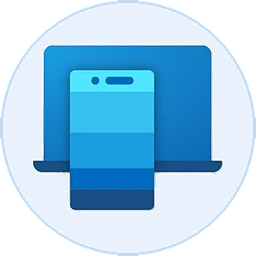
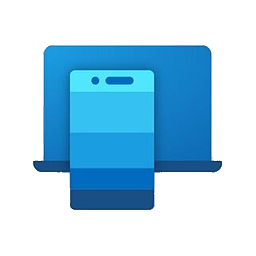
feat: 未讀膠囊加全部已讀並去掉手機連結白底

diff --git a/docs/updates.html b/docs/updates.html
@@ -70,6 +70,8 @@ footer{text-align:center;color:var(--dim);font-size:11.5px;letter-spacing:.1em;m
       <div class="card"><span class="badge">吉祥物</span><h3>原始主題恢復原作者石虎，漸層主題保留台灣島虎</h3><p>經典、奶油、毛玻璃與懸浮雲改回原作者的石虎點陣影格；只有懸浮漸層使用台灣版單線條島虎。原本使用者資料夾只剩說明文字，才會出現「吉祥物不見了」；現在內建影格會自動接手，不必把圖放回資料夾。線條會依實際玻璃與桌面底色選深墨或白線，白線遇到半透明亮底再加一層極淡深色底。</p></div>
       <div class="card"><span class="badge">歌詞</span><h3>長歌詞不再被省略號截斷，當前句會自動折行</h3><p>右側歌詞區加寬，當前句原文最多折三行、譯文最多兩行；英文與韓文按單字換行，中文、日文按字換行，不會把英文單字拆成兩半。前後句在空間足夠時仍以淡出的一行保留上下文，長句不會再整句變成「…」；播放控制、進度條與專輯封面位置不變。</p></div>
       <div class="card"><span class="badge">官網</span><h3>訊息上島卡片補回六顆社群圖示</h3><p>特色功能第二張卡原本只有文字，現在補上 LINE、手機連結、Messenger、Threads、Facebook 與 Instagram 六顆圓形圖示，和島上使用的圖示一致；深色主題會加白底，黑色 Threads 圖示不會消失。</p></div>
+      <div class="card"><span class="badge">訊息</span><h3>未讀膠囊新增「全部已讀」</h3><p>展開未讀後，膠囊底部多一顆「全部已讀」。按下去會清掉 LINE、手機連結、Messenger、Threads、Facebook、Instagram 的島上未讀，收起島體，不會開啟任何程式；健康提醒不會被誤清。</p></div>
+      <div class="card"><span class="badge">圖示</span><h3>手機連結圖示去掉白底圓盤</h3><p>手機連結的圖示改成透明底，只留筆電與手機本體，不再帶著一塊淡白圓形背景；在綠色、深色與淺色主題上都直接貼合島體。</p></div>
       <div class="card"><span class="badge">遊戲</span><h3>第十頁「遊戲庫」讀取本機 Steam 與 Riot</h3><p>讀取 Steam 登錄檔與 libraryfolders.vdf，列出各收藏庫已安裝的遊戲、最後遊玩與容量；同一路徑大小寫不同不再重複計算。Riot 端固定列出 Riot Client、英雄聯盟、聯盟戰棋與 VALORANT，按下啟動會走 Steam 或 Riot 的正式協定。只在使用者打開頁面或按重新掃描時讀 manifest，不在背景登入、不上傳收藏庫，也不定時輪詢。</p></div>
       <div class="card"><span class="badge">官網</span><h3>介面輪播補上遊戲庫，功能卡增至七張</h3><p>官網「介面」區的展開畫面新增第八張遊戲庫，Riot 四項與可滾動的 Steam 清單直接入鏡；右側通知列數字一樣在 10–50 間跟著切換。特色功能新增「本機遊戲庫」卡，說明只讀本機資料與啟動方式。</p></div>
       <div class="card"><span class="badge">官網</span><h3>介面區加入八張展開畫面與通知列</h3><p>「介面」區多一組可左右滑動的實機畫面：天氣、音樂、島上歌詞、番茄專注、剪貼簿、待辦清單、行程與遊戲庫，滑鼠拖曳、觸控滑動、鍵盤方向鍵與圓點都能切換。畫面旁同步亮起 Gmail、LINE、手機連結與系統通知四顆圓形圖示，未讀數字在 10–50 之間跟著畫面更換，切換時依序彈出。</p></div>

diff --git a/hist/更新總覽.html b/hist/更新總覽.html
@@ -67,6 +67,8 @@ footer{text-align:center;color:var(--dim);font-size:11.5px;letter-spacing:.1em;m
       <div class="card"><span class="badge">吉祥物</span><h3>原始主題恢復原作者石虎，漸層主題保留台灣島虎</h3><p>經典、奶油、毛玻璃與懸浮雲改回原作者的石虎點陣影格；只有懸浮漸層使用台灣版單線條島虎。原本使用者資料夾只剩說明文字，才會出現「吉祥物不見了」；現在內建影格會自動接手，不必把圖放回資料夾。線條會依實際玻璃與桌面底色選深墨或白線，白線遇到半透明亮底再加一層極淡深色底。</p></div>
       <div class="card"><span class="badge">歌詞</span><h3>長歌詞不再被省略號截斷，當前句會自動折行</h3><p>右側歌詞區加寬，當前句原文最多折三行、譯文最多兩行；英文與韓文按單字換行，中文、日文按字換行，不會把英文單字拆成兩半。前後句在空間足夠時仍以淡出的一行保留上下文，長句不會再整句變成「…」；播放控制、進度條與專輯封面位置不變。</p></div>
       <div class="card"><span class="badge">官網</span><h3>訊息上島卡片補回六顆社群圖示</h3><p>特色功能第二張卡原本只有文字，現在補上 LINE、手機連結、Messenger、Threads、Facebook 與 Instagram 六顆圓形圖示，和島上使用的圖示一致；深色主題會加白底，黑色 Threads 圖示不會消失。</p></div>
+      <div class="card"><span class="badge">訊息</span><h3>未讀膠囊新增「全部已讀」</h3><p>展開未讀後，膠囊底部多一顆「全部已讀」。按下去會清掉 LINE、手機連結、Messenger、Threads、Facebook、Instagram 的島上未讀，收起島體，不會開啟任何程式；健康提醒不會被誤清。</p></div>
+      <div class="card"><span class="badge">圖示</span><h3>手機連結圖示去掉白底圓盤</h3><p>手機連結的圖示改成透明底，只留筆電與手機本體，不再帶著一塊淡白圓形背景；在綠色、深色與淺色主題上都直接貼合島體。</p></div>
       <div class="card"><span class="badge">遊戲</span><h3>第十頁「遊戲庫」讀取本機 Steam 與 Riot</h3><p>讀取 Steam 登錄檔與 libraryfolders.vdf，列出各收藏庫已安裝的遊戲、最後遊玩與容量；同一路徑大小寫不同不再重複計算。Riot 端固定列出 Riot Client、英雄聯盟、聯盟戰棋與 VALORANT，按下啟動會走 Steam 或 Riot 的正式協定。只在使用者打開頁面或按重新掃描時讀 manifest，不在背景登入、不上傳收藏庫，也不定時輪詢。</p></div>
       <div class="card"><span class="badge">官網</span><h3>介面輪播補上遊戲庫，功能卡增至七張</h3><p>官網「介面」區的展開畫面新增第八張遊戲庫，Riot 四項與可滾動的 Steam 清單直接入鏡；右側通知列數字一樣在 10–50 間跟著切換。特色功能新增「本機遊戲庫」卡，說明只讀本機資料與啟動方式。</p></div>
       <div class="card"><span class="badge">官網</span><h3>介面區加入八張展開畫面與通知列</h3><p>「介面」區多一組可左右滑動的實機畫面：天氣、音樂、島上歌詞、番茄專注、剪貼簿、待辦清單、行程與遊戲庫，滑鼠拖曳、觸控滑動、鍵盤方向鍵與圓點都能切換。畫面旁同步亮起 Gmail、LINE、手機連結與系統通知四顆圓形圖示，未讀數字在 10–50 之間跟著畫面更換，切換時依序彈出。</p></div>

diff --git a/src/app.rs b/src/app.rs
@@ -164,9 +164,11 @@ impl Env {
 pub use crate::messenger::{Messenger,Unread};
 
 /// 展开后未读胶囊的宽度、离面板的间距和每个图标占的高度。
-pub(crate) const UNREAD_W: f32 = 40.0;
+pub(crate) const UNREAD_W: f32 = 68.0;
 pub(crate) const UNREAD_GAP: f32 = 8.0;
 pub(crate) const UNREAD_SLOT: f32 = 36.0;
+/// 未读胶囊底部的「全部已讀」高度；图标列表只用到剩下的空间。
+const UNREAD_CLEAR_H: f32 = 34.0;
 /// 收起时两个来源图标的间距：并排各占一格，不叠放。
 fn unread_step(_horizontal: bool) -> f32 { 22.0 }
 
@@ -2407,11 +2409,12 @@ impl App {
     /// 展开胶囊高度：一个是圆，两个是短胶囊，三个及以上与面板等高（多出的滚动）。
     fn unread_capsule_height(&self,panel_h:f32)->f32 {
         let n=self.unread_count();
-        if n>=3 {panel_h} else {4.0+UNREAD_SLOT*n as f32}
+        let list=if n>=3 {panel_h}else{4.0+UNREAD_SLOT*n as f32};
+        (list+UNREAD_CLEAR_H).min(panel_h)
     }
     pub(crate) fn unread_top_inset(&self)->f32 {if self.dock()==model::Dock::Top {UNREAD_GAP}else{0.0}}
     fn unread_slot(&self,height:f32)->f32 {
-        if self.unread_count()>=3 {(height-4.0)/3.0} else {UNREAD_SLOT}
+        if self.unread_count()>=3 {((height-4.0-UNREAD_CLEAR_H)/3.0).max(26.0)} else {UNREAD_SLOT}
     }
     fn unread_count(&self)->usize {self.pending_messengers.len()+self.social.active_ordered(&self.settings.social_order).len()+self.health_badges().len()}
     /// 收起时叠放的来源图标，每个客户端各占一个。
@@ -2467,24 +2470,27 @@ impl App {
         let n=self.unread_count();
         let height=rect.height()/c.s;
         let slot=self.unread_slot(height);
-        let max_scroll=(n as f32-3.0).max(0.0)*slot;
+        // 底部留給「全部已讀」，圖示只在上面這段捲動。
+        let list_h=(height-UNREAD_CLEAR_H-2.0).max(slot);
+        let visible=((list_h-2.0)/slot).floor().max(1.0);
+        let max_scroll=(n as f32-visible).max(0.0)*slot;
         let hovering=cursor.is_some_and(|p|rect.contains(p));
         if max_scroll>0.0 && cursor.is_some_and(|p|rect.contains(p)) {
             let delta=ctx.input(|i|i.raw_scroll_delta.y);
             self.messenger_scroll-=delta*0.5;
         }else if max_scroll>0.0 && !hovering {
-            // 超過三個未讀時緩慢往下刷，讓下面的來源自己露出來；滑鼠移進膠囊就停止，改用手動滾輪。
+            // 超過可見數量時緩慢往下刷，讓下面的來源自己露出來；滑鼠移進膠囊就停止，改用手動滾輪。
             self.messenger_scroll+=ctx.input(|i|i.stable_dt).clamp(0.0,0.1)*7.0;
             if self.messenger_scroll>=max_scroll{self.messenger_scroll=0.0;}
         }
         self.messenger_scroll=self.messenger_scroll.clamp(0.0,max_scroll);
         let c=c.faded(self.messenger_appear());
-        let inner=c.clipped(0.0,2.0,UNREAD_W,height-4.0);
+        let inner=c.clipped(0.0,2.0,UNREAD_W,list_h);
         let x=UNREAD_W/2.0;
         for i in 0..self.pending_messengers.len() {
             let u=self.pending_messengers[i];
             let cy=2.0+slot*(i as f32+0.5)-self.messenger_scroll;
-            if cy< -slot || cy>height+slot {continue;}
+            if cy< -slot || cy>list_h+slot {continue;}
             let scale=u.source.adapter().icon_scale;
             crate::extras::messenger_icon(&inner.scaled(x,cy,scale),x,cy,u.source);
             inner.circle(x+10.0,cy-9.0,2.6,Color32::from_rgb(255,72,72));
@@ -2501,7 +2507,7 @@ impl App {
         let socials=self.social.active_ordered(&self.settings.social_order);
         for (i,(source,count)) in socials.iter().enumerate() {
             let cy=2.0+slot*((self.pending_messengers.len()+i) as f32+0.5)-self.messenger_scroll;
-            if cy< -slot || cy>height+slot {continue;}
+            if cy< -slot || cy>list_h+slot {continue;}
             source.paint(&inner,x,cy);
             crate::social::badge(&inner,x+10.0,cy+7.5,*count,6.0,8.0);
             let button=inner.hit(0.0,cy-slot/2.0,UNREAD_W,slot,("social",source.key())).on_hover_text(format!("{} · {} 則訊息，點選開啟",source.name(),count));
@@ -2509,7 +2515,7 @@ impl App {
         }
         for (i,kind) in self.health_badges().into_iter().enumerate() {
             let cy=2.0+slot*((self.pending_messengers.len()+socials.len()+i) as f32+0.5)-self.messenger_scroll;
-            if cy< -slot || cy>height+slot {continue;}
+            if cy< -slot || cy>list_h+slot {continue;}
             kind.icon(&inner,x,cy,0.8);
             inner.circle(x+10.0,cy-9.0,2.6,Color32::from_rgb(255,59,48));
             let button=crate::quota_ui::bar_tooltip(inner.hit(0.0,cy-slot/2.0,UNREAD_W,slot,kind.id().to_string()),format!("{} · 點選確認，重新計時",kind.label()));
@@ -2519,7 +2525,17 @@ impl App {
             // 还有没露出的图标：上下边缘各一条淡淡的指示。
             let ink=paint::alpha(theme::WHITE,0.35);
             if self.messenger_scroll>0.5 {c.fill(x-6.0,4.0,12.0,2.0,1.0,ink);}
-            if self.messenger_scroll<max_scroll-0.5 {c.fill(x-6.0,height-6.0,12.0,2.0,1.0,ink);}
+            if self.messenger_scroll<max_scroll-0.5 {c.fill(x-6.0,list_h-6.0,12.0,2.0,1.0,ink);}
+        }
+        if !self.pending_messengers.is_empty() || !socials.is_empty() {
+            let bh=26.0;
+            let bw=UNREAD_W-12.0;
+            let bx=6.0;
+            let by=height-bh-4.0;
+            c.fill(bx,by,bw,bh,bh/2.0,Color32::from_rgba_unmultiplied(10,16,26,180));
+            c.centered_text(UNREAD_W/2.0,by+bh/2.0,"全部已讀",10.0,W::Bold,theme::WHITE,H::Center);
+            let button=c.hit(bx,by,bw,bh,"unread-all-read").on_hover_text("將所有訊息標為已讀並收起");
+            if button.clicked(){self.clear_all_unread();}
         }
     }
 
@@ -2587,6 +2603,32 @@ impl App {
         self.open=true; self.forced_open_until=self.t+4.0;
         self.w.tune(OPEN_W.0,OPEN_W.1);self.h.tune(OPEN_H.0,OPEN_H.1);
         self.w.target=PW;self.h.target=self.expanded_height();
+    }
+    /// 全部已讀：只清掉島上的訊息未讀，不開任何程式，然後把島體收回。
+    pub(crate) fn clear_all_unread(&mut self){
+        let pending=self.pending_messengers.clone();
+        for unread in pending {self.discard_unread(unread);}
+        for source in crate::social::Social::ALL {
+            if self.social.count(source)>0 {self.social.clear(source);}
+        }
+        self.social.persist();
+        self.mail_unread=0;
+        self.notice=None;
+        self.hud_notice=None;
+        self.notice_details=false;
+        self.notification_bell_until=0.0;
+        self.messenger_scroll=0.0;
+        self.open=false;
+        self.hover_lock=true;
+        self.hover_since=None;
+        self.leave_since=None;
+        self.forced_open_until=0.0;
+        self.music_volume_open=false;
+        let (bw,bh)=self.base_size();
+        self.w.tune(CLOSE.0,CLOSE.1);
+        self.h.tune(CLOSE.0,CLOSE.1);
+        self.w.target=bw;
+        self.h.target=bh;
     }
     fn notice_rect(&self,cx:f32,top:f32)->Option<Rect>{
         if !self.compact_notices(){return None;}

diff --git a/src/ui_tests.rs b/src/ui_tests.rs
@@ -4090,6 +4090,59 @@ fn mascot_integrated_expression_gallery(){
     }
 }
 #[test]
+#[ignore="按需匯出未讀膠囊的全部已讀按鈕：KUIDAO_UNREAD_PREVIEW_DIR=目錄"]
+fn unread_all_read_layout_preview(){
+    let _g=ENV_LOCK.lock().unwrap_or_else(|e|e.into_inner());
+    let dest=std::path::PathBuf::from(std::env::var_os("KUIDAO_UNREAD_PREVIEW_DIR").expect("需指定預覽目錄"));
+    std::fs::create_dir_all(&dest).unwrap();
+    let mut h=H::new();let mut r=feature_raster();
+    h.app.settings.skin=crate::model::Skin::GradMeadow;
+    h.app.social.bump(crate::social::Social::Line,"jp.naver.line");
+    h.app.social.bump(crate::social::Social::PhoneLink,"Microsoft.YourPhone_8wekyb3d8bbwe!App");
+    h.app.pending_messengers.push(crate::app::Unread::of(crate::app::Messenger::Wechat));
+    h.app.reveal_unread();
+    let ppp=2.0;let (w,hgt)=(crate::app::CANVAS_W,WIN_H);
+    for f in 0..120 {
+        h.t+=1.0/60.0;
+        let env=Env{t:h.t,clock:"09:41:00".into(),today:"2026-11-21".into(),date:"11月21日 週六".into(),cursor:Some(H::local(300.0,60.0)),bt_ready:true,..Default::default()};
+        let raw=egui::RawInput{screen_rect:Some(Rect::from_min_size(Pos2::ZERO,Vec2::new(w,hgt))),time:Some(h.t),focused:true,
+            events:vec![egui::Event::PointerMoved(H::local(300.0,60.0))],
+            viewports:std::iter::once((egui::ViewportId::ROOT,egui::ViewportInfo{native_pixels_per_point:Some(ppp),..Default::default()})).collect(),..Default::default()};
+        let app=&mut h.app;
+        let output=h.ctx.run(raw,|ctx|{egui::CentralPanel::default().frame(egui::Frame::new()).show(ctx,|ui|{let win=Rect::from_min_size(ui.max_rect().min,Vec2::new(WIN_W,WIN_H));app.frame(ui,win,&env);});});
+        r.update_textures(&output.textures_delta);
+        let primitives=h.ctx.tessellate(output.shapes,output.pixels_per_point);
+        if f+1==120 {
+            r.buf.fill([0.20,0.24,0.32,1.0]);
+            r.draw(&primitives,output.pixels_per_point);
+            let mut rgba=Vec::new();r.to_rgba8(&mut rgba);
+            let image=image::RgbaImage::from_raw((w*ppp) as u32,(hgt*ppp) as u32,rgba).unwrap();
+            let crop_h=(h.app.expanded_height()*ppp+24.0).max(330.0).min(hgt*ppp) as u32;
+            image::imageops::crop_imm(&image,200,0,1040,crop_h).to_image().save(dest.join("unread-all-read.png")).unwrap();
+        }
+        r.free_textures(&output.textures_delta);
+    }
+}
+
+#[test]
+fn unread_all_read_clears_and_closes_without_opening_a_program(){
+    let _g=ENV_LOCK.lock().unwrap_or_else(|e|e.into_inner());
+    let mut h=H::new();
+    h.app.social.bump(crate::social::Social::Line,"jp.naver.line");
+    h.app.social.bump(crate::social::Social::PhoneLink,"Microsoft.YourPhone_8wekyb3d8bbwe!App");
+    h.app.pending_messengers.push(crate::app::Unread::of(crate::app::Messenger::Wechat));
+    h.app.reveal_unread();
+    for _ in 0..120 {h.frame(vec![]);}
+    assert!(h.app.open && h.app.messenger_appear()>0.9,"未讀膠囊應先展開");
+    h.cmds.clear();
+    h.click_text("全部已讀");
+    assert!(h.app.pending_messengers.is_empty(),"全部已讀應清掉原生聊天未讀");
+    assert_eq!(h.app.social.total(),0,"全部已讀應清掉社群未讀");
+    assert!(!h.app.open,"全部已讀後應直接收起");
+    assert!(h.cmds.is_empty(),"全部已讀不應開啟任何程式");
+}
+
+#[test]
 fn minimal_island_hides_messenger_notices_until_expanded(){
     // 群友截图：极简刘海下来电 / 新消息后，细线变成带微信图标的方块。极简刘海照常弹横幅，收起后只留细线，未读不常挂。
     let _g=ENV_LOCK.lock().unwrap_or_else(|e|e.into_inner());
